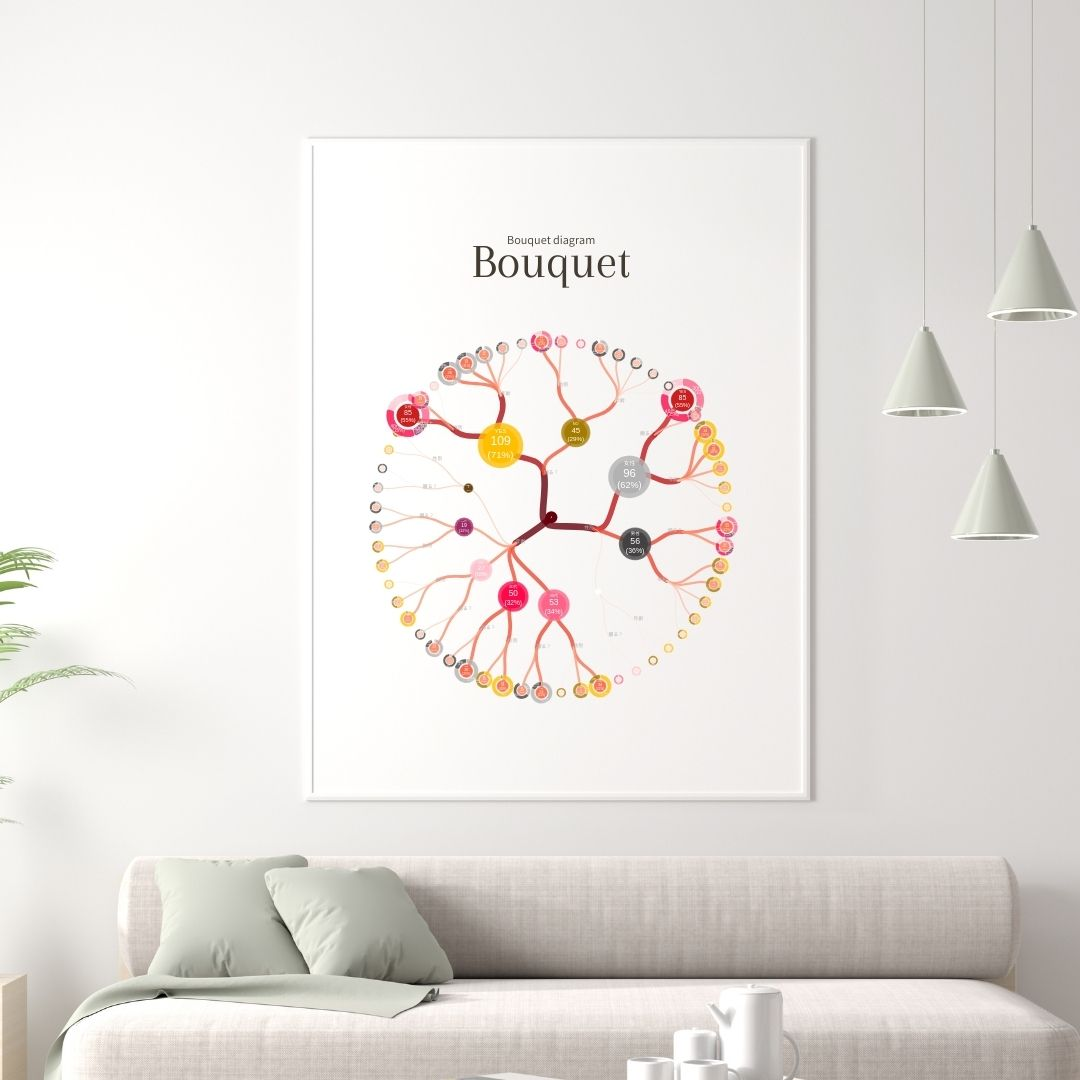
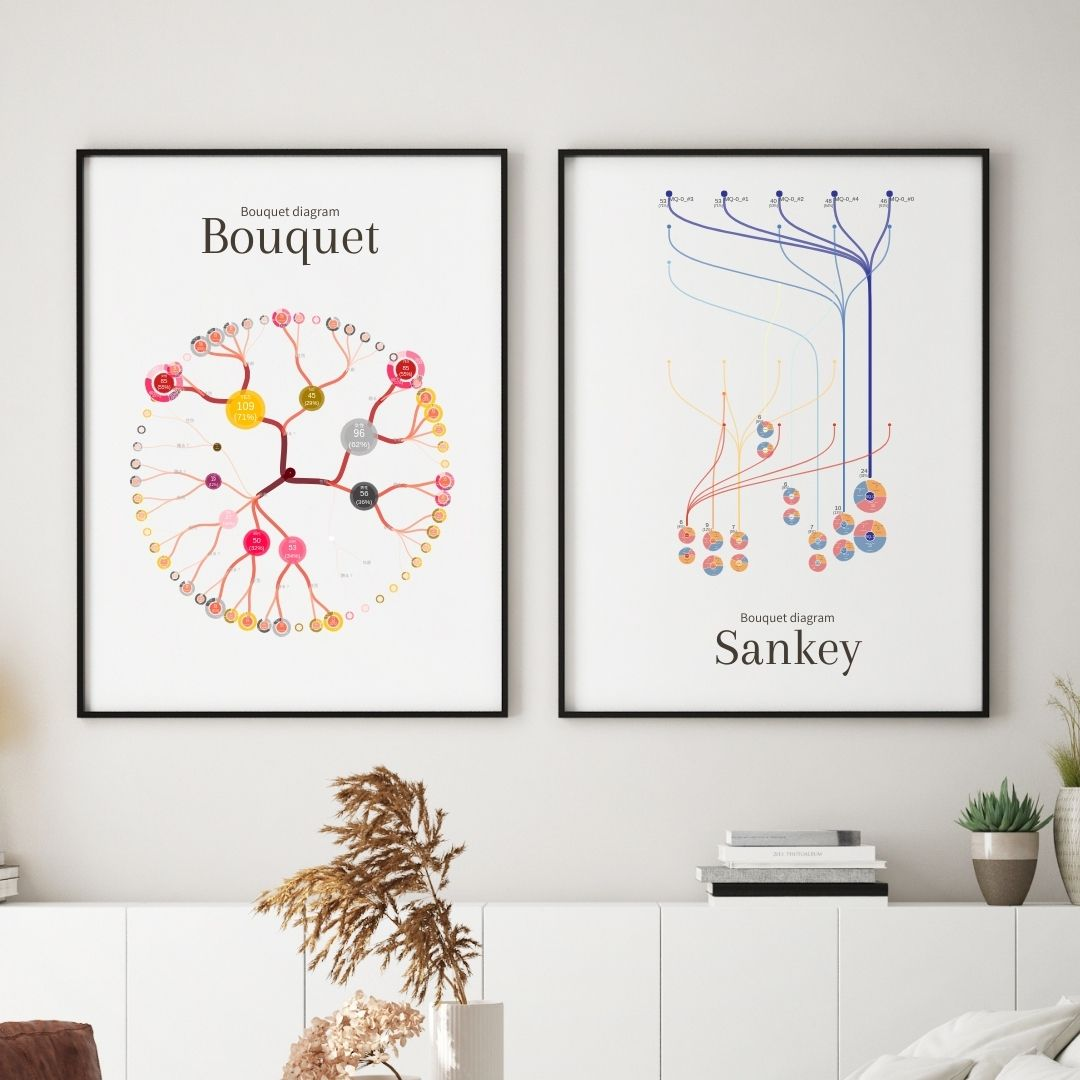
Add Sankey

diff --git a/index.html b/index.html
@@ -59,10 +59,6 @@
 								<li class="icon solid fa-laptop">For visual data analysis</li>
 								<li class="icon solid fa-palette">For publication as large-scale printed material</li>
 							</ul>
-							<div class="youtube">
-								<iframe width="560" height="315" src="https://www.youtube.com/embed/9LRqn85zmoc?si=WHkMeJw8fXoh0_NB" title="YouTube video player" frameborder="0" allow="accelerometer; autoplay; clipboard-write; encrypted-media; gyroscope; picture-in-picture; web-share" referrerpolicy="strict-origin-when-cross-origin" allowfullscreen></iframe>
-							</div>
-							<!-- <span class="image main"><img src="images/pic02.jpg" alt="" /></span> -->
 						</div>
 					</section>
 
@@ -80,7 +76,7 @@
 							</p>
 
 							<p>
-								If you want to perform more detailed tuning beyond what can be controlled with the app, or if you want to create a figure that includes private information, please contact us using "Contact Us" below.
+								If you want to create a figure that includes private information, please contact us using "Contact Us" below.
 							</p>
 
 						</div>
@@ -101,6 +97,10 @@
 										<p>Hierarchical visualization of multiple single-choice responses</p>
 									</header>
 									<div class="content">
+										<div class="youtube">
+											<iframe width="560" height="315" src="https://www.youtube.com/embed/9LRqn85zmoc?si=WHkMeJw8fXoh0_NB" title="YouTube video player" frameborder="0" allow="accelerometer; autoplay; clipboard-write; encrypted-media; gyroscope; picture-in-picture; web-share" referrerpolicy="strict-origin-when-cross-origin" allowfullscreen></iframe>
+										</div>
+
 										<div class="gallery">
 											<a href="images/gallery/fulls/01.jpg" class="landscape"><img src="images/gallery/thumbs/Bouquet1.jpg" alt="" /></a>
 											<a href="images/gallery/fulls/02.jpg"><img src="images/gallery/thumbs/Bouquet2.jpg" alt="" /></a>
@@ -115,9 +115,12 @@
 									<header>
 										<h3>Sankey</h3>
 										<p>Paired visualization of single-choice and multiple-choice responses</p>
-										<p><code>This version has not yet been implemented in the web app.</code></p>
 									</header>
 									<div class="content">
+										<div class="youtube">
+											<iframe width="560" height="315" src="https://www.youtube.com/embed/wjjYWAzNhcE?si=scSuUK_Q8EKgF2IR" title="YouTube video player" frameborder="0" allow="accelerometer; autoplay; clipboard-write; encrypted-media; gyroscope; picture-in-picture; web-share" referrerpolicy="strict-origin-when-cross-origin" allowfullscreen></iframe>
+										</div>
+
 										<div class="gallery">
 											<a href="images/gallery/fulls/05.jpg" class="landscape"><img src="images/gallery/thumbs/Sankey1.jpg" alt="" /></a>
 											<!-- <a href="images/gallery/fulls/06.jpg"><img src="images/gallery/thumbs/06.jpg" alt="" /></a> -->
